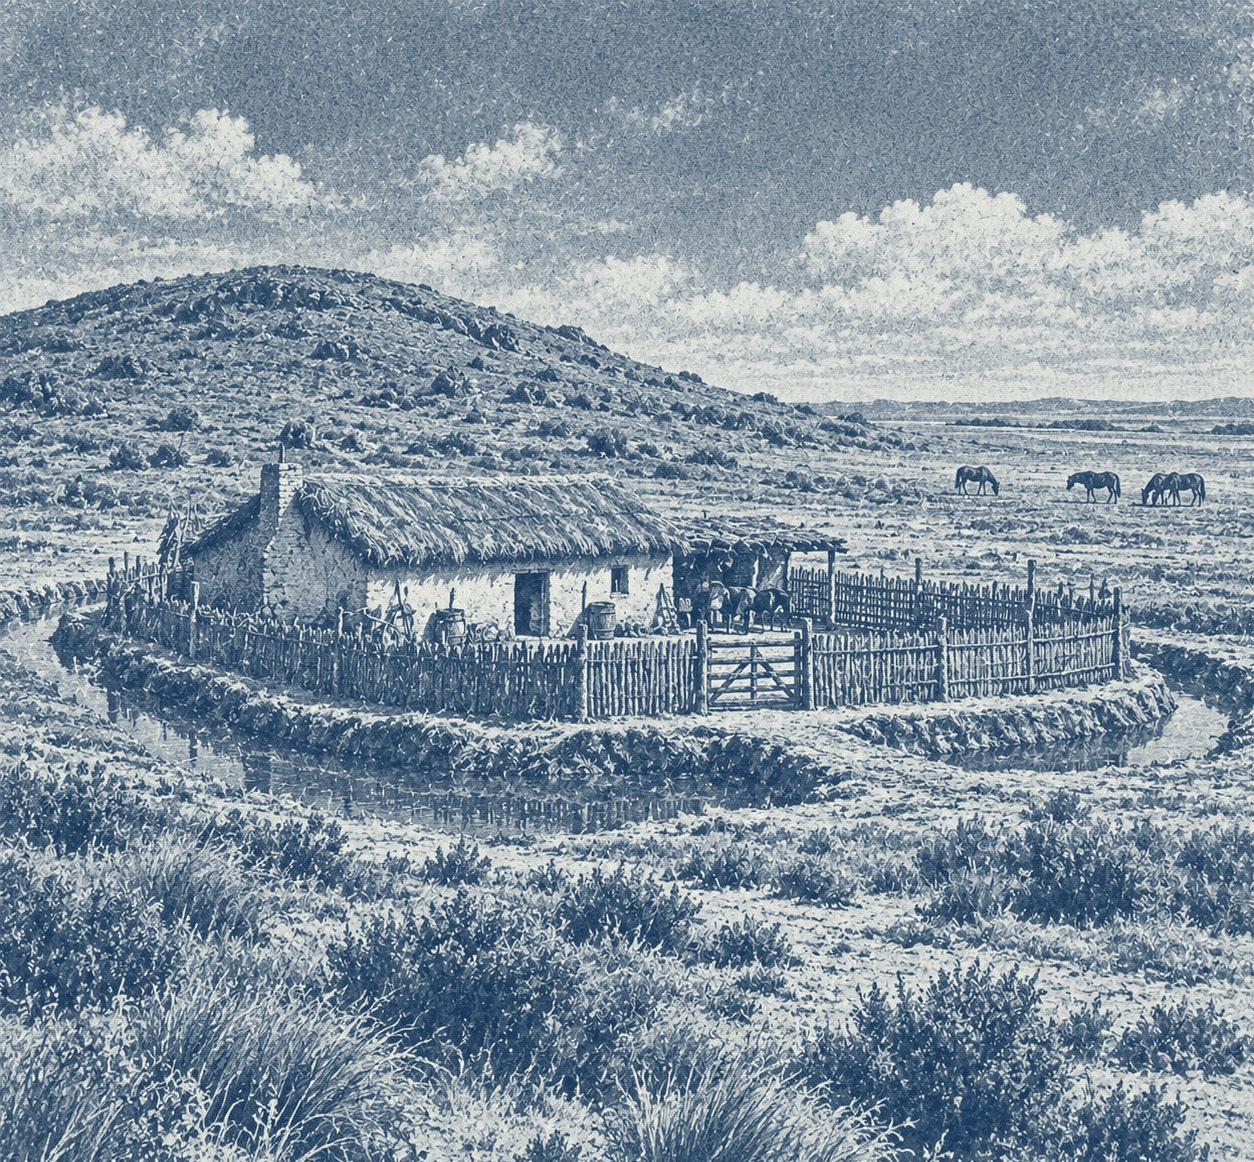
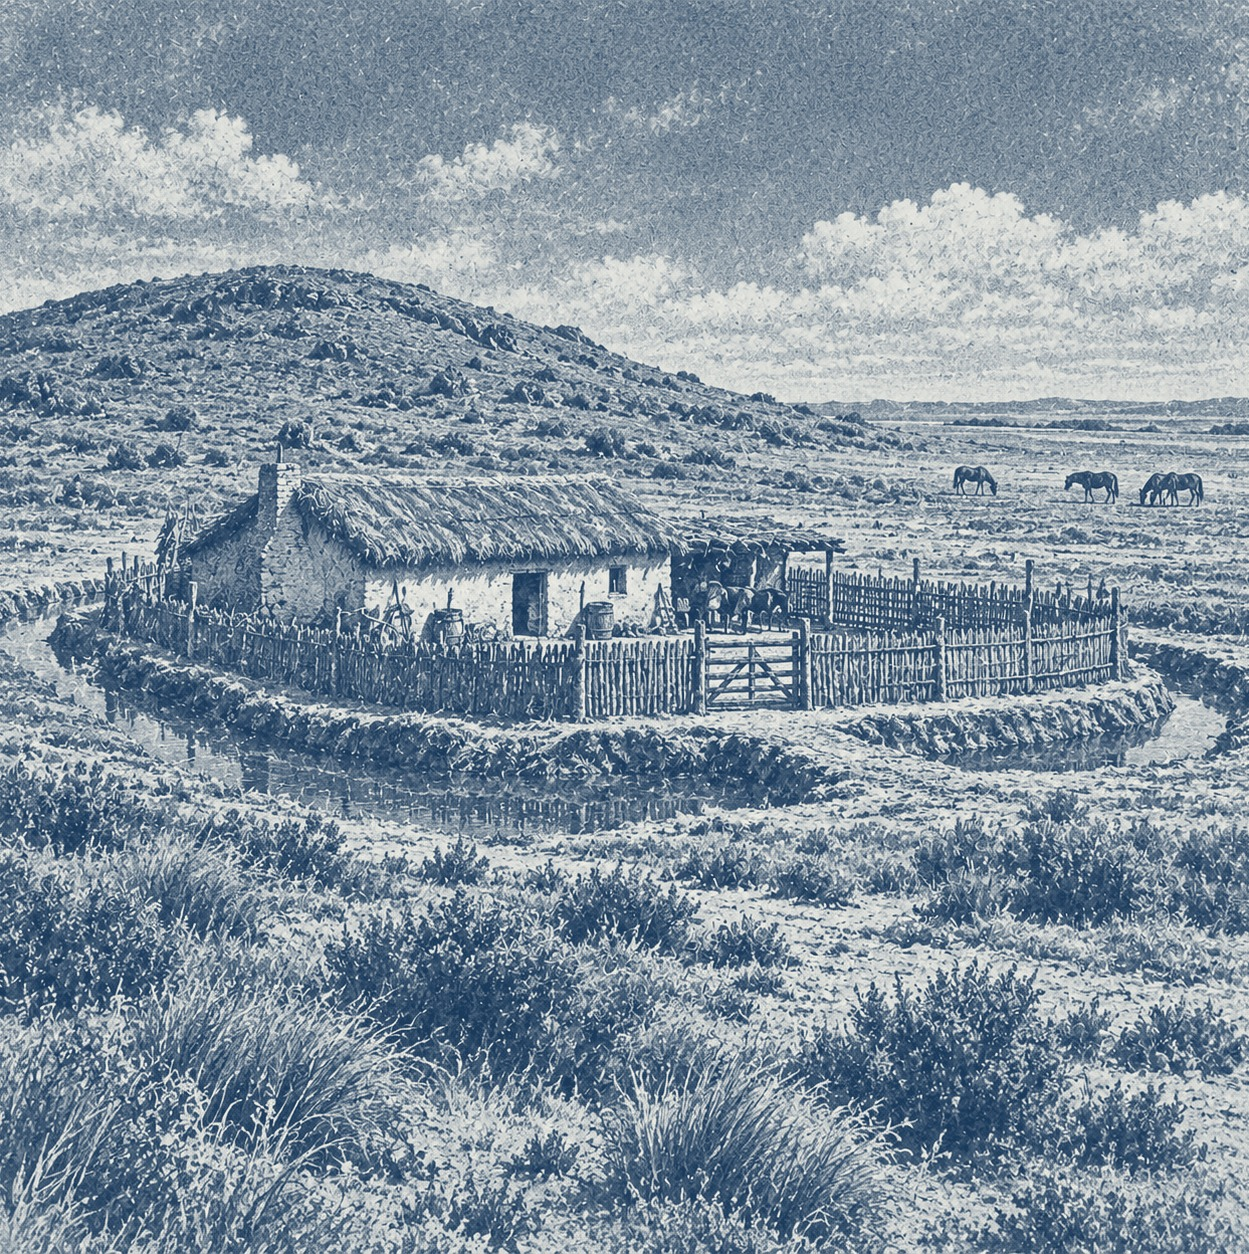
034: imagen y texto empiezan y terminan en la misma línea

diff --git a/index.html b/index.html
@@ -5,23 +5,23 @@
 <meta charset="utf-8">
 <meta name="viewport" content="width=1280">
 <title>Darwin en la Argentina — libro</title>
-<link rel="stylesheet" href="styles/tokens.css?v=0a7509f7">
-<link rel="stylesheet" href="styles/typography.css?v=0a7509f7">
-<link rel="stylesheet" href="styles/grid.css?v=0a7509f7">
-<link rel="stylesheet" href="styles/components.css?v=0a7509f7">
-<link rel="stylesheet" href="styles/pages.css?v=0a7509f7">
-<link rel="stylesheet" href="styles/maps.css?v=0a7509f7">
-<link rel="stylesheet" href="styles/paradas.css?v=0a7509f7">
-<link rel="stylesheet" href="styles/registros.css?v=0a7509f7">
-<link rel="stylesheet" href="styles/tramo-03.css?v=0a7509f7">
-<link rel="stylesheet" href="styles/tramo-04-05.css?v=0a7509f7">
-<link rel="stylesheet" href="styles/tramo-05-07.css?v=0a7509f7">
-<link rel="stylesheet" href="styles/tramo-07-10.css?v=0a7509f7">
-<link rel="stylesheet" href="styles/tramo-10-15.css?v=0a7509f7">
-<link rel="stylesheet" href="styles/fotos.css?v=0a7509f7">
-<link rel="stylesheet" href="tapa/tapa.css?v=0a7509f7">
-<link rel="stylesheet" href="styles/medida.css?v=0a7509f7">
-<link rel="stylesheet" href="styles/print.css?v=0a7509f7">
+<link rel="stylesheet" href="styles/tokens.css?v=0da441bc">
+<link rel="stylesheet" href="styles/typography.css?v=0da441bc">
+<link rel="stylesheet" href="styles/grid.css?v=0da441bc">
+<link rel="stylesheet" href="styles/components.css?v=0da441bc">
+<link rel="stylesheet" href="styles/pages.css?v=0da441bc">
+<link rel="stylesheet" href="styles/maps.css?v=0da441bc">
+<link rel="stylesheet" href="styles/paradas.css?v=0da441bc">
+<link rel="stylesheet" href="styles/registros.css?v=0da441bc">
+<link rel="stylesheet" href="styles/tramo-03.css?v=0da441bc">
+<link rel="stylesheet" href="styles/tramo-04-05.css?v=0da441bc">
+<link rel="stylesheet" href="styles/tramo-05-07.css?v=0da441bc">
+<link rel="stylesheet" href="styles/tramo-07-10.css?v=0da441bc">
+<link rel="stylesheet" href="styles/tramo-10-15.css?v=0da441bc">
+<link rel="stylesheet" href="styles/fotos.css?v=0da441bc">
+<link rel="stylesheet" href="tapa/tapa.css?v=0da441bc">
+<link rel="stylesheet" href="styles/medida.css?v=0da441bc">
+<link rel="stylesheet" href="styles/print.css?v=0da441bc">
 </head>
 <body>
 <div class="spread"><div class="slot--empty"></div><section class="page page--cover page--right front" id="ptapa">
@@ -1009,7 +1009,7 @@
   <div class="page__box">
     <h1 class="p034__title t-pagetitle">Posta, pantano y barro</h1>
     <p class="p034__text t-darwin body">Tras cruzar la extensión arenosa, llegamos ya tarde a una de las postas, y como los caballos de refresco estaban pastando a cierta distancia, resolvimos pasar allí la noche. La casa estaba situada al pie de un cerro de 30 a 60 metros de alto, el rasgo más notable de este país. Esta posta tenía por jefe a un teniente negro nacido en Africa, y en su elogio debo decir que no había un rancho entre el Colorado y Buenos Aires que se acercara a éste en orden y limpieza. Allí encontramos un cuartito para los forasteros que llegaran y un pequeño corral para los caballos, y ambos locales estaban hechos de palos y cañas; además se había cavado un foso o zanja alrededor de la casa, como defensa para el caso de ser atacada. <span class="cut">[…]</span> Dejamos atrás Cabeza de Buey, antiguo nombre dado al trozo primero de un gran pantano que se extiende desde Bahía Blanca. Aquí mudamos de caballos y recorrimos algunas leguas de terreno encharcado y marismas salinas. Después de renovar por última vez las cabalgaduras, empezamos otra vez a vadear por lodazales. Cayóse mi montura y me puse perdido de barro, accidente de lo más desagradable que es dable imaginar cuando no se tiene ropa con que mudarse.</p>
-    <div class="p034__image foto" style="background-image:url(assets/images/034-posta.jpg?v=ec5a4186)" role="img" aria-label="posta al pie de un cerro bajo: rancho y corral de palos y cañas, foso alrededor"></div>
+    <div class="p034__image foto" style="background-image:url(assets/images/034-posta.jpg?v=e6438df6)" role="img" aria-label="posta al pie de un cerro bajo: rancho y corral de palos y cañas, foso alrededor"></div>
   </div>
   <div class="page__folio"><b>034</b><span>04 Camino a Bahía Blanca</span></div>
 </section>

diff --git a/styles/medida.css b/styles/medida.css
@@ -258,3 +258,6 @@
 /* 031: la imagen empieza y termina con el texto (13 líneas, 7–19): borde superior a la altura de las mayúsculas
    de la primera línea y borde inferior en la línea de base de la última (pedido de Patricio, 12 oct. 2026) */
 .p031__image { grid-row: 7 / 20; margin-top: 0.85mm; margin-bottom: 1mm; }
+
+/* 034: la imagen empieza y termina con el texto (21 líneas, 7–27), con el mismo criterio que 031 */
+.p034__image { grid-row: 7 / 28; margin-top: 0.85mm; margin-bottom: 1mm; }

diff --git a/tools/fotos.py b/tools/fotos.py
@@ -24,7 +24,7 @@ FOTOS = [
     ('029', 'hoguera', 188, 36, 'c', .5, .56, 0),
     ('030', 'aguti', 60, 54, 'l', .5, .5, 0),
     ('031', 'yeguada', 92.3, 56.65, 'c', .5, .5, 0),
-    ('034', 'posta', 92.3, 85.5, 'c', .5, .45, 0),
+    ('034', 'posta', 92.3, 92.65, 'c', .5, .45, 0),
     ('036', 'punta-alta', 210, 37, 'c', .5, .50, 0),
     ('038', 'megaterios', 92.3, 94.5, 'l', .5, .5, 0),
     ('040', 'cantil-huesos', 92.3, 72, 'c', .58, .5, 0),

diff --git a/BOOK_PROGRESS.md b/BOOK_PROGRESS.md
@@ -521,3 +521,4 @@ Se reemplazaron los 39 recuadros de imagen pendiente por ilustraciones generadas
 - 2026-10-12 · 072: VERIFICACIÓN DOCUMENTAL HECHA. La pág. 182 (que falta en el escaneo del proyecto) se cotejó a la vista con el facsímil de la misma edición (Espasa-Calpe 1921, tomo I) en Wikisource/Commons, imagen 209 del djvu: el texto del fragmento y la nota (1) coinciden palabra por palabra (comparación a la vista y mecánica contra la transcripción). Se confirma «3°» y «género Cactus» (ya no es duda). Se quita el cartel de la página; re-aprobada.
 - 2026-10-12 · 024: la imagen de la salina va a sangre abajo y a la izquierda (pedido de Patricio; caja 198 × 43,5 mm, 197 ppp); el folio queda sobre chapa de papel. Solo CSS e imagen: sigue bloqueada.
 - 2026-10-12 · 031: la imagen empieza y termina con el texto (líneas 7–19; borde superior a la altura de las mayúsculas de la primera línea, inferior en la línea de base de la última; recorte 92,3 × 56,65 mm, 423 ppp). Pedido de Patricio. Solo CSS e imagen: sigue bloqueada.
+- 2026-10-12 · 034: la imagen empieza y termina con el texto (líneas 7–27; mismo criterio que 031; recorte 92,3 × 92,65 mm, 344 ppp). Pedido de Patricio. Solo CSS e imagen: sigue bloqueada.
